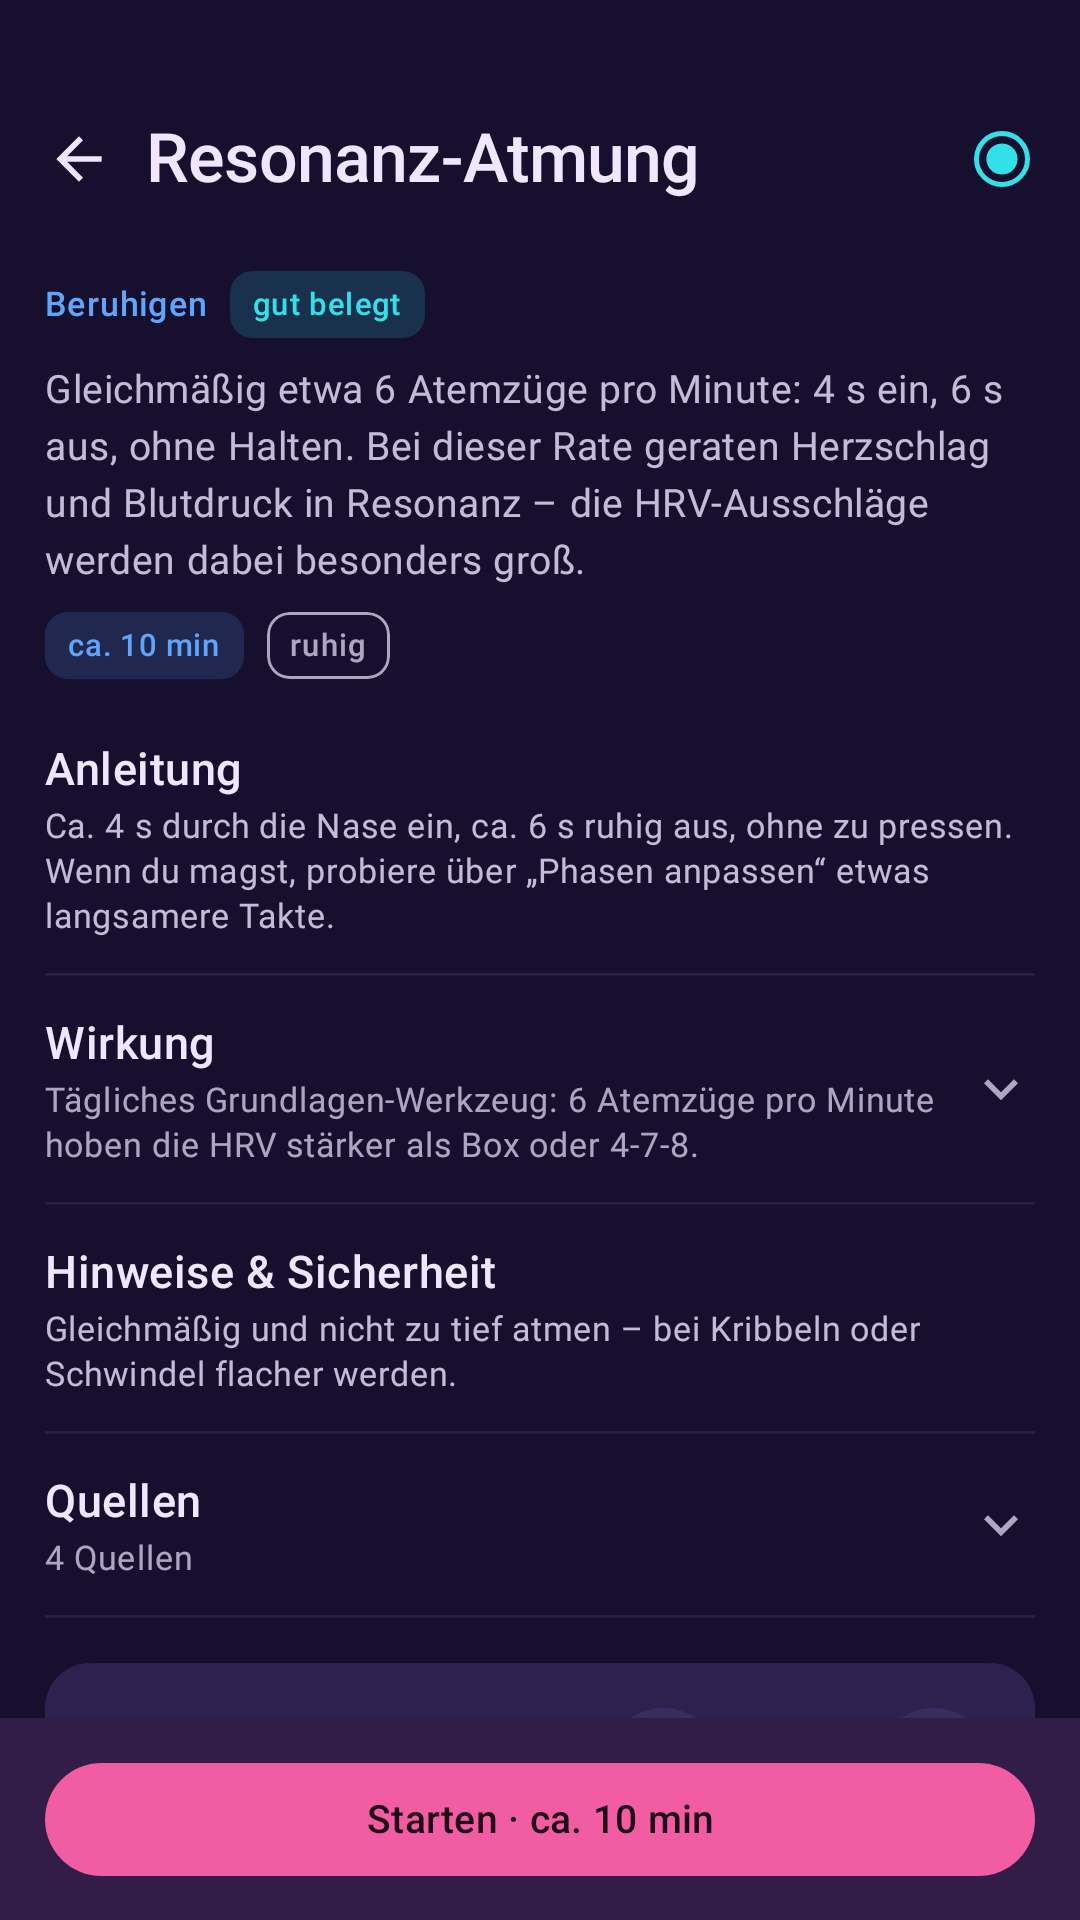
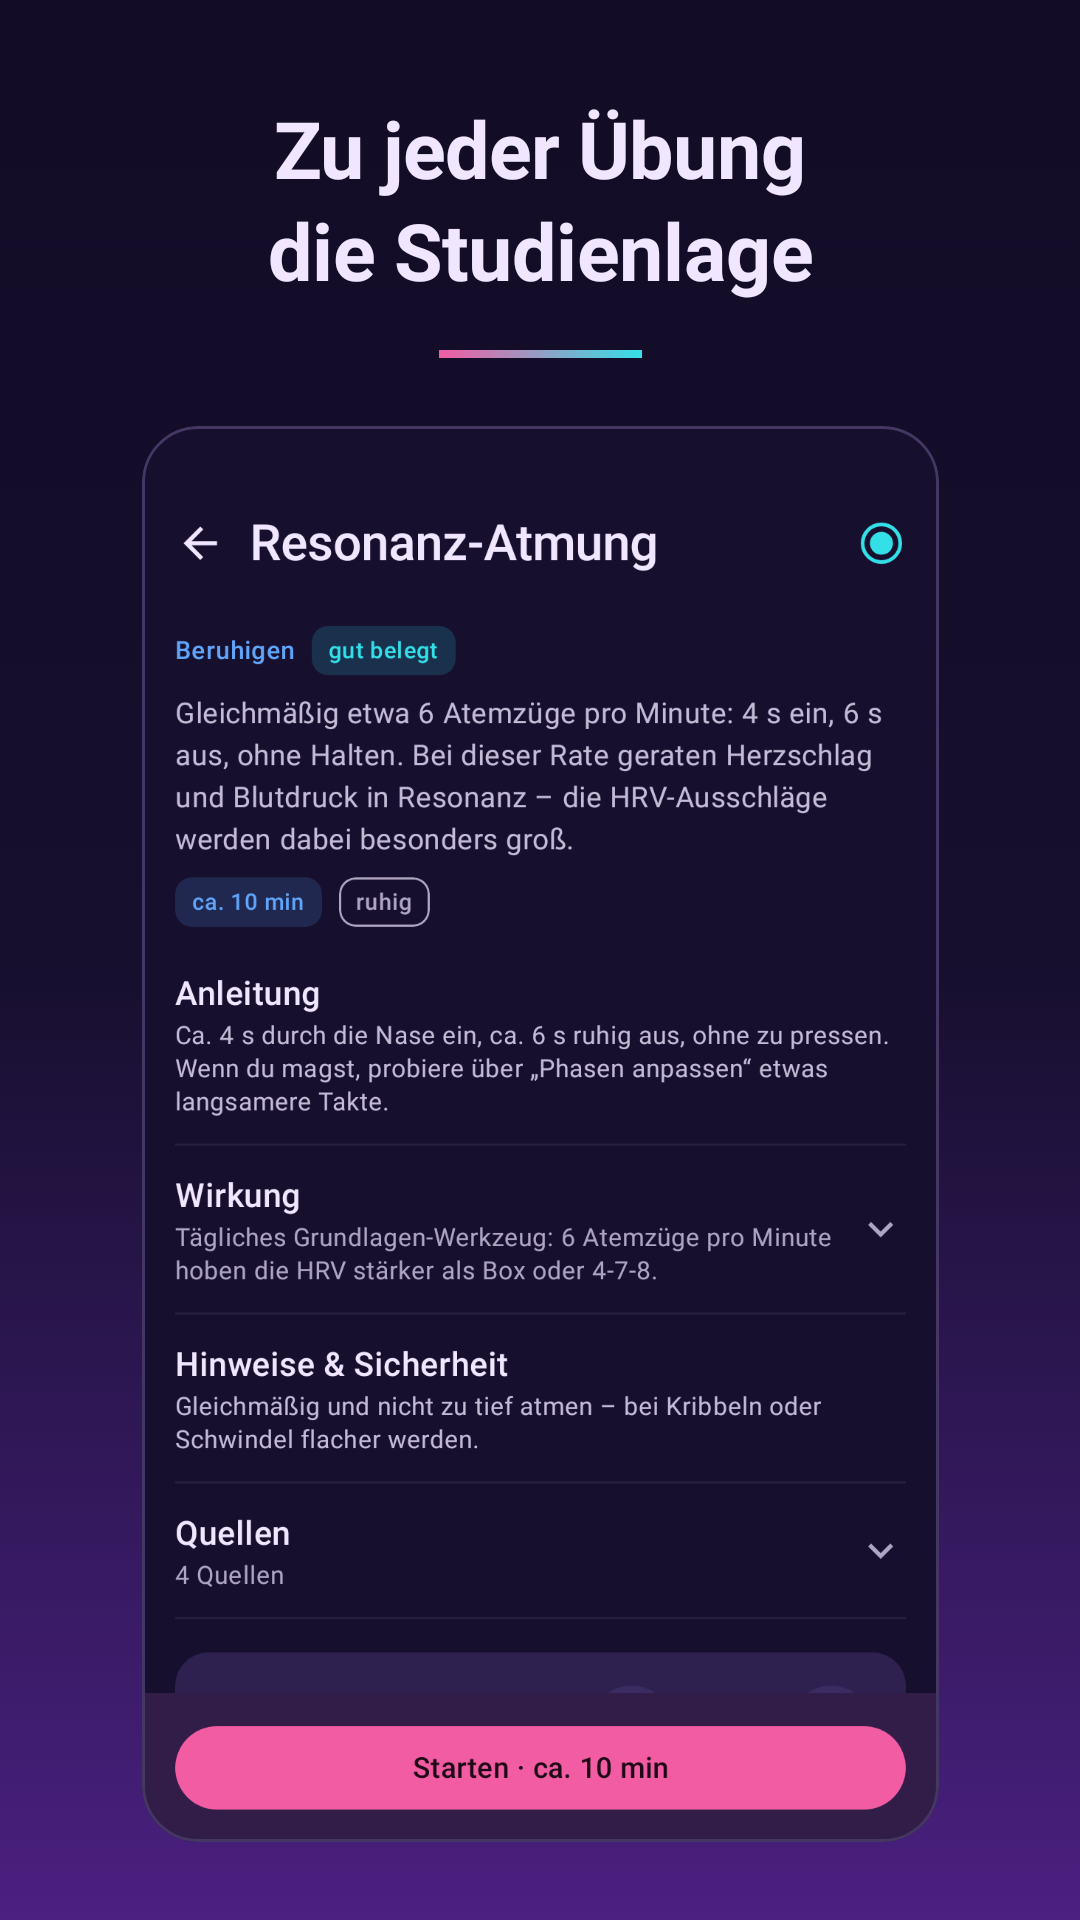
build: Store-Screenshots mit Bildunterschrift je Sprache, Store-Text nachgezogen
Play zeigt die Screenshots ohne Erklärung; der UX-Vergleich (#1) empfahl
einen Nutzensatz je Bild vor dem ersten Store-Upload. StoreScreenshotTest
nimmt jetzt erst den Bildschirm auf und setzt ihn dann verkleinert unter
einen Satz auf dem Grund der Feature-Grafik, in der Schrift der App
(headlineMedium) – für de-DE und en-US mit eigenem Text, 1080 × 1920 ohne
Alpha, beide Stufen durch die Gates. Befehl unverändert (-PstoreScreenshots);
Bilder neu erzeugt.

Store-Langtext: „Am Ende fragt die App, wie du dich fühlst“ stimmte nicht
(es gibt keine Abfrage) – jetzt „lädt sie ein, kurz nachzuspüren“. Neu
erwähnt: Serie abschaltbar, „Zuletzt geübt“ und der Schnellstart über das
App-Symbol (auch englisch). Titel bleibt „Atemkraft – Atemübungen“.

Claude-Session: https://claude.ai/code/session_01H2VGhxbJTSRd9dYHL6wNME

diff --git a/app/src/test/java/app/atemkraft/ui/screenshots/StoreScreenshotTest.kt b/app/src/test/java/app/atemkraft/ui/screenshots/StoreScreenshotTest.kt
@@ -4,11 +4,14 @@ import android.graphics.Bitmap
 import android.graphics.Canvas
 import android.graphics.drawable.AdaptiveIconDrawable
 import androidx.compose.foundation.Canvas
+import androidx.compose.foundation.Image
 import androidx.compose.foundation.background
+import androidx.compose.foundation.border
 import androidx.compose.foundation.layout.Box
 import androidx.compose.foundation.layout.Column
 import androidx.compose.foundation.layout.Row
 import androidx.compose.foundation.layout.Spacer
+import androidx.compose.foundation.layout.aspectRatio
 import androidx.compose.foundation.layout.fillMaxSize
 import androidx.compose.foundation.layout.fillMaxWidth
 import androidx.compose.foundation.layout.height
@@ -20,16 +23,22 @@ import androidx.compose.material3.Text
 import androidx.compose.runtime.Composable
 import androidx.compose.ui.Alignment
 import androidx.compose.ui.Modifier
+import androidx.compose.ui.draw.clip
 import androidx.compose.ui.geometry.Offset
 import androidx.compose.ui.graphics.Brush
 import androidx.compose.ui.graphics.Color
+import androidx.compose.ui.graphics.FilterQuality
+import androidx.compose.ui.graphics.ImageBitmap
 import androidx.compose.ui.graphics.asAndroidBitmap
+import androidx.compose.ui.graphics.asImageBitmap
 import androidx.compose.ui.graphics.drawscope.Stroke
+import androidx.compose.ui.layout.ContentScale
 import androidx.compose.ui.test.hasScrollToKeyAction
 import androidx.compose.ui.test.onNodeWithText
 import androidx.compose.ui.test.performClick
 import androidx.compose.ui.test.performScrollToKey
 import androidx.compose.ui.text.font.FontWeight
+import androidx.compose.ui.text.style.TextAlign
 import androidx.compose.ui.unit.dp
 import androidx.compose.ui.unit.sp
 import androidx.core.content.res.ResourcesCompat
@@ -46,6 +55,7 @@ import app.atemkraft.ui.theme.DarkBackground
 import app.atemkraft.ui.theme.DarkOnBackground
 import app.atemkraft.ui.theme.NeonCyan
 import app.atemkraft.ui.theme.NeonMagenta
+import app.atemkraft.ui.theme.OutlineVariantIndigo
 import app.atemkraft.ui.theme.SurfaceContainerLowest
 import app.atemkraft.ui.theme.SynthCircleCenter
 import app.atemkraft.ui.theme.SynthCircleEdge
@@ -65,15 +75,18 @@ import javax.imageio.ImageIO
 /**
  * Bilder für Google Play und F-Droid (`fastlane/metadata/android/<sprache>/images/`, docs/STORE.md):
  * App-Icon 512 × 512 aus dem adaptiven Launcher-Icon, Feature-Grafik 1024 × 500 und sechs
- * Telefon-Screenshots 1080 × 1920 (9:16, ohne Alpha) in repräsentativen Zuständen. Durch dieselben
- * Gates wie die übrigen Screenshots ([ScreenshotHarness]).
+ * Telefon-Screenshots 1080 × 1920 (9:16, ohne Alpha) in repräsentativen Zuständen. Jeder Screenshot
+ * trägt oben einen Nutzensatz je Sprache ([Caption], Auswertung 2026-10-24, UX #1) auf dem Grund der
+ * Feature-Grafik in der Schrift der App, darunter den verkleinerten Bildschirm. Bildschirm und
+ * fertiges Bild laufen durch dieselben Gates wie die übrigen Screenshots ([ScreenshotHarness]).
  *
  * Läuft nur auf Wunsch; im normalen Testlauf (`scripts/check.sh`) schließt Gradle die Klasse aus:
  *
  *     scripts/build.sh testDebugUnitTest --tests '*StoreScreenshotTest' -PstoreScreenshots
  *
  * Gradle setzt dann `atemkraft.storeOut` auf `fastlane/metadata/android`; de-DE und en-US
- * bekommen dieselben Dateien.
+ * bekommen dieselben Bildschirme (die App ist deutsch) mit eigener Bildunterschrift, Icon und
+ * Feature-Grafik sind gleich.
  */
 @RunWith(RobolectricTestRunner::class)
 @GraphicsMode(GraphicsMode.Mode.NATIVE)
@@ -87,6 +100,11 @@ class StoreScreenshotTest : ScreenshotHarness(STORE, 1f) {
         private const val SHOT_HEIGHT = 1920
         private const val STATUS_BAR_DP = 24
         private val LOCALES = listOf("de-DE", "en-US")
+    }
+
+    /** Nutzensatz über einem Screenshot, je Sprache des Store-Eintrags. */
+    private class Caption(val de: String, val en: String) {
+        fun of(locale: String) = if (locale == "de-DE") de else en
     }
 
     private val out: File? = System.getProperty("atemkraft.storeOut")?.let(::File)
@@ -105,13 +123,14 @@ class StoreScreenshotTest : ScreenshotHarness(STORE, 1f) {
         val resonance = BuiltInExercises.all.first { it.id == "resonanz" }
         var inhales = 0
         val session = sessionAt(resonance, elapsedMs = 2_000) { it.type == PhaseType.INHALE && ++inhales == 12 }
-        shot(1) { SessionShot(session) }
+        // Geschützte Leerzeichen vor dem Gedankenstrich: Keine Zeile beginnt mit „–“ (badBreakAt).
+        shot(1, Caption("Ein Kreis atmet mit dir", "A circle breathes with you")) { SessionShot(session) }
         // Anlass „Einschlafen“ gewählt, Liste bis zum Block „Wie fühlst du dich?“ gescrollt.
-        shot(2, tab = Tab.ATMEN, prepare = {
+        shot(2, Caption("Sag, wie es dir geht\u00A0– die App schlägt vor", "Say how you feel\u00A0– the app suggests an exercise"), tab = Tab.ATMEN, prepare = {
             compose.onNode(hasScrollToKeyAction()).performScrollToKey("feeling")
             compose.onNodeWithText("Einschlafen").performClick()
         }) { BreatheTab() }
-        shot(3) {
+        shot(3, Caption("Zu jeder Übung die Studienlage", "The state of research for every exercise")) {
             WithStatusBar {
                 ExerciseDetailScreen(
                     exercise = resonance,
@@ -130,11 +149,11 @@ class StoreScreenshotTest : ScreenshotHarness(STORE, 1f) {
                 )
             }
         }
-        shot(4, tab = Tab.MEDITATION) { MeditationTab(MeditationConfig(minutes = 10)) }
-        shot(5, tab = Tab.EIGENE, tabBar = false) {
+        shot(4, Caption("Stille Meditation mit Gong", "Silent meditation with a gong"), tab = Tab.MEDITATION) { MeditationTab(MeditationConfig(minutes = 10)) }
+        shot(5, Caption("Eigene Muster an der Kurve formen", "Shape your own patterns on the curve"), tab = Tab.EIGENE, tabBar = false) {
             Editor { PatternEditorState.forEdit(it, 5L, template("Viloma I"), 5, "Stufen am Abend").apply { select(1) } }
         }
-        shot(6, tab = Tab.LERNEN) {
+        shot(6, Caption("Yoga-Lehre und Wissen, offline", "Yoga teachings and background, offline"), tab = Tab.LERNEN) {
             LearnScreen(onOpenSettings = {}, onOpenAtemlehre = {}, onOpenPranayama = {}, onOpenPrograms = {}, onOpenGlossary = {})
         }
     }
@@ -166,20 +185,71 @@ class StoreScreenshotTest : ScreenshotHarness(STORE, 1f) {
         FeatureGraphic()
     }
 
-    /** Ein Screenshot in Gerätehöhe; [tab] wie in der App mit Status-, Tab- und Systemleiste. */
-    private fun shot(n: Int, tab: Tab? = null, tabBar: Boolean = true, prepare: () -> Unit = {}, content: @Composable () -> Unit) = snap(
-        "store_$n",
-        heightDp = device.heightDp,
-        tab = tab,
-        tabBar = tabBar,
-        prepare = prepare,
-        export = { image ->
-            val bitmap = image.asAndroidBitmap()
-            assertTrue("Screenshot zu klein: ${bitmap.width} × ${bitmap.height}", bitmap.width >= SHOT_WIDTH && bitmap.height >= SHOT_HEIGHT)
-            write(Bitmap.createBitmap(bitmap, 0, 0, SHOT_WIDTH, SHOT_HEIGHT), "phoneScreenshots/$n.png")
-        },
-        content = content,
-    )
+    /**
+     * Ein Screenshot: erst der Bildschirm in Gerätehöhe ([tab] wie in der App mit Status-, Tab- und
+     * Systemleiste), dann je Sprache das fertige Bild mit [caption] darüber ([CaptionedShot]).
+     */
+    private fun shot(n: Int, caption: Caption, tab: Tab? = null, tabBar: Boolean = true, prepare: () -> Unit = {}, content: @Composable () -> Unit) {
+        var screen: ImageBitmap? = null
+        snap("store_$n", heightDp = device.heightDp, tab = tab, tabBar = tabBar, prepare = prepare, export = { screen = crop(it) }, content = content)
+        val shown = checkNotNull(screen)
+        LOCALES.forEach { locale ->
+            snap("store_${n}_$locale", heightDp = device.heightDp, export = { write(crop(it).asAndroidBitmap(), "phoneScreenshots/$n.png", listOf(locale)) }) {
+                CaptionedShot(caption.of(locale), shown)
+            }
+        }
+    }
+
+    /** Das Bild auf 1080 × 1920 px: 683 dp bei 450 dpi ergeben eine Zeile zu viel. */
+    private fun crop(image: ImageBitmap): ImageBitmap {
+        val bitmap = image.asAndroidBitmap()
+        assertTrue("Screenshot zu klein: ${bitmap.width} × ${bitmap.height}", bitmap.width >= SHOT_WIDTH && bitmap.height >= SHOT_HEIGHT)
+        return Bitmap.createBitmap(bitmap, 0, 0, SHOT_WIDTH, SHOT_HEIGHT).asImageBitmap()
+    }
+
+    /**
+     * Fertiges Store-Bild: oben der Nutzensatz ([caption], `headlineMedium` der App, zentriert) mit
+     * dem Farbstrich der Feature-Grafik, darunter der Bildschirm ([screen]) verkleinert mit runden
+     * Ecken; Grund wie die Feature-Grafik.
+     */
+    @Composable
+    private fun CaptionedShot(caption: String, screen: ImageBitmap) {
+        Column(
+            Modifier
+                .fillMaxSize()
+                .background(Brush.verticalGradient(listOf(SurfaceContainerLowest, DarkBackground, SynthCircleEdge))),
+            horizontalAlignment = Alignment.CenterHorizontally,
+        ) {
+            Spacer(Modifier.height(36.dp))
+            Text(
+                text = caption,
+                style = MaterialTheme.typography.headlineMedium,
+                color = DarkOnBackground,
+                textAlign = TextAlign.Center,
+                modifier = Modifier.padding(horizontal = 28.dp),
+            )
+            Spacer(Modifier.height(16.dp))
+            Box(
+                Modifier
+                    .width(72.dp)
+                    .height(3.dp)
+                    .background(Brush.horizontalGradient(listOf(NeonMagenta, NeonCyan))),
+            )
+            Spacer(Modifier.height(24.dp))
+            Image(
+                bitmap = screen,
+                contentDescription = null,
+                contentScale = ContentScale.Fit,
+                filterQuality = FilterQuality.High,
+                modifier = Modifier
+                    .weight(1f)
+                    .aspectRatio(SHOT_WIDTH / SHOT_HEIGHT.toFloat())
+                    .clip(MaterialTheme.shapes.large)
+                    .border(1.dp, OutlineVariantIndigo, MaterialTheme.shapes.large),
+            )
+            Spacer(Modifier.height(28.dp))
+        }
+    }
 
     /** Seiten der Tiefe liegen in der App unter der Statusleiste. */
     @Composable
@@ -242,15 +312,15 @@ class StoreScreenshotTest : ScreenshotHarness(STORE, 1f) {
         }
     }
 
-    /** Schreibt [bitmap] als PNG in jede Sprache; ohne [alpha] als 24-Bit-RGB (Play: Screenshots und Feature-Grafik ohne Alpha). */
-    private fun write(bitmap: Bitmap, path: String, alpha: Boolean = false) {
+    /** Schreibt [bitmap] als PNG in [locales]; ohne [alpha] als 24-Bit-RGB (Play: Screenshots und Feature-Grafik ohne Alpha). */
+    private fun write(bitmap: Bitmap, path: String, locales: List<String> = LOCALES, alpha: Boolean = false) {
         System.setProperty("java.awt.headless", "true")
         val w = bitmap.width
         val h = bitmap.height
         val pixels = IntArray(w * h).also { bitmap.getPixels(it, 0, w, 0, 0, w, h) }
         val image = BufferedImage(w, h, if (alpha) BufferedImage.TYPE_INT_ARGB else BufferedImage.TYPE_INT_RGB)
         image.setRGB(0, 0, w, h, pixels, 0, w)
-        LOCALES.forEach { locale ->
+        locales.forEach { locale ->
             val file = File(checkNotNull(out), "$locale/images/$path")
             file.parentFile?.mkdirs()
             check(ImageIO.write(image, "png", file)) { "Kein PNG-Writer für $file" }

diff --git a/docs/STORE.md b/docs/STORE.md
@@ -45,9 +45,9 @@ Alles, was beide Stores aus dem Repo lesen, liegt unter `fastlane/metadata/andro
 |---|---|---|
 | `de-DE/images/icon.png` | 512 × 512 px, 32-Bit-PNG mit Alpha, höchstens 1 MB | aus dem adaptiven Launcher-Icon gerendert (sichtbare 72 dp der 108-dp-Ebenen); Ecken rundet Play |
 | `de-DE/images/featureGraphic.png` | 1024 × 500 px, JPEG oder 24-Bit-PNG **ohne** Alpha. Play-Pflicht, F-Droid zeigt es als Kopfbild | Atemringe des Icons, App-Name, „Atemübungen und Meditation“ |
-| `de-DE/images/phoneScreenshots/1.png` … `6.png` | Play: mindestens 2, höchstens 8; Seiten 320–3840 px, Seitenverhältnis höchstens 2:1, ohne Alpha. Für Empfehlungen in Play mindestens 4 im Hochformat ab 1080 × 1920 px | 1080 × 1920 px (384 dp bei 450 dpi wie das A54, Höhe 9:16): Sitzung, Atmen mit Anlass „Einschlafen“, Detail Resonanz-Atmung, Meditation, Muster-Editor, Lernen |
+| `de-DE/images/phoneScreenshots/1.png` … `6.png` | Play: mindestens 2, höchstens 8; Seiten 320–3840 px, Seitenverhältnis höchstens 2:1, ohne Alpha. Für Empfehlungen in Play mindestens 4 im Hochformat ab 1080 × 1920 px | 1080 × 1920 px (384 dp bei 450 dpi wie das A54, Höhe 9:16), oben ein Nutzensatz je Sprache auf dem Grund der Feature-Grafik in der Schrift der App (`headlineMedium`), darunter der verkleinerte Bildschirm: 1 Sitzung „Ein Kreis atmet mit dir“, 2 Atmen mit Anlass „Einschlafen“ „Sag, wie es dir geht – die App schlägt vor“, 3 Detail Resonanz-Atmung „Zu jeder Übung die Studienlage“, 4 Meditation „Stille Meditation mit Gong“, 5 Muster-Editor „Eigene Muster an der Kurve formen“, 6 Lernen „Yoga-Lehre und Wissen, offline“ (englisch entsprechend) |
 
-Alle Bilder erzeugt `StoreScreenshotTest` (Robolectric, dieselben Gates wie der Screenshot-Test) und schreibt sie nach `de-DE/images/` und `en-US/images/` (gleiche Dateien):
+Alle Bilder erzeugt `StoreScreenshotTest` (Robolectric, dieselben Gates wie der Screenshot-Test, für den Bildschirm und das fertige Bild mit Bildunterschrift) und schreibt sie nach `de-DE/images/` und `en-US/images/`: Icon und Feature-Grafik gleich, die Screenshots mit demselben (deutschen) Bildschirm und der Bildunterschrift der jeweiligen Sprache; die Sätze stehen im Test (`Caption`):
 
 ```bash
 scripts/build.sh testDebugUnitTest --tests '*StoreScreenshotTest' -PstoreScreenshots
